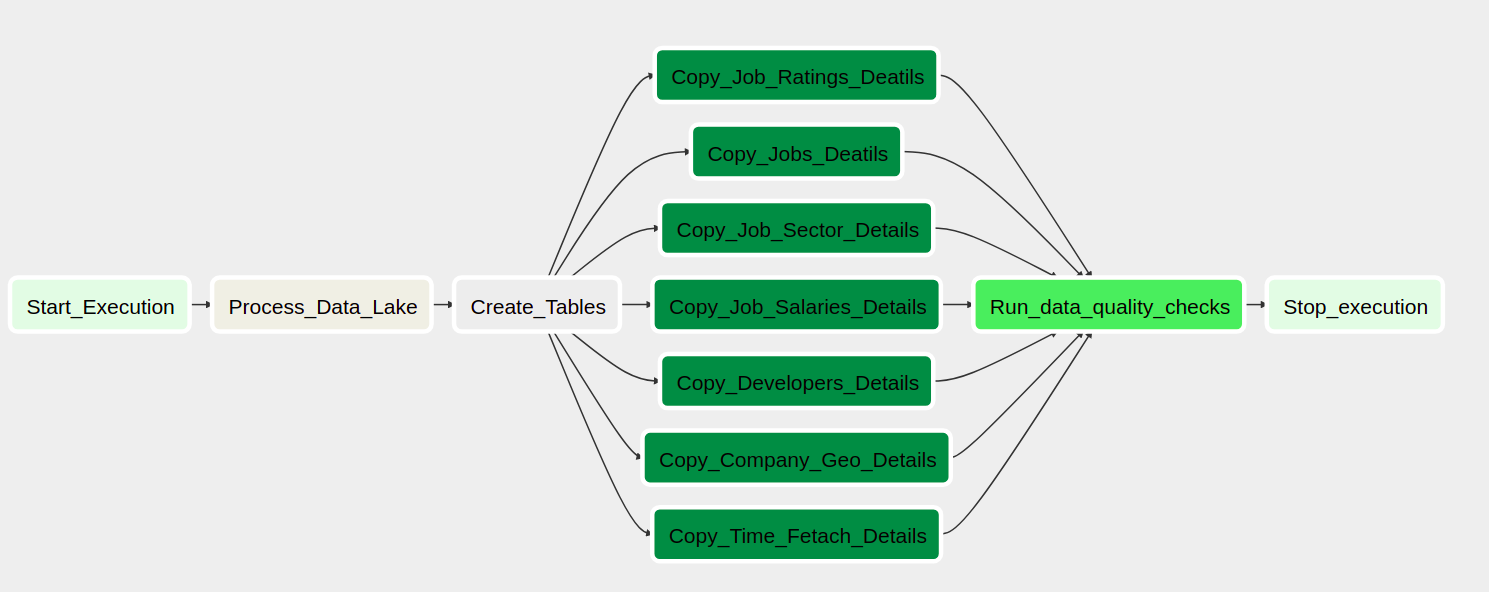
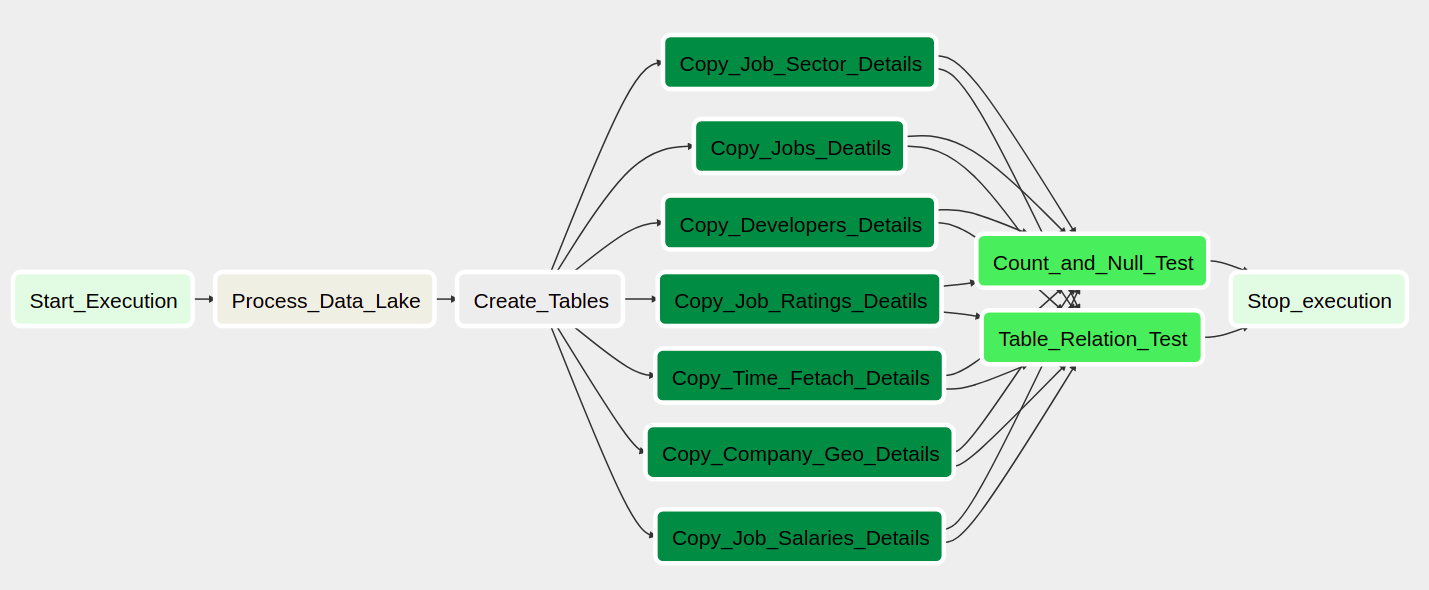
Data Quality Updated

Changed region(s): [[0.0, 0.061, 0.9853, 0.8542], [0.4311, 0.8542, 0.6774, 0.9763], [0.6774, 0.1525, 0.7082, 0.2136]]

diff --git a/data_pipeline/dags/jobs_dag.py b/data_pipeline/dags/jobs_dag.py
@@ -128,16 +128,28 @@ copy_developers_to_redshift = CopyToRedshiftOperator(
 )
 
 
-dq_checks = [
+dq_null_checks = [
 {'check_sql': "SELECT COUNT(*) FROM jobs;", 'test_expr': "{} < 1"},
 {'check_sql': "SELECT COUNT(*) FROM developers WHERE person_id is NULL;", 'test_expr': "{} >= 1"}
 ]
 
-run_quality_checks = DataQualityOperator(
-    task_id='Run_data_quality_checks',
+count_and_null_test = DataQualityOperator(
+    task_id='Count_and_Null_Test',
     dag=dag,
     redshift_conn_id="redshift",
-    dq_checks=dq_checks
+    dq_checks=dq_null_checks
+)
+
+
+dq_join_checks = [
+{'check_sql': "SELECT COUNT(*) FROM job_salary JOIN company_location on (job_salary.company = company_location.company);", 'test_expr': "{} < 1"},
+]
+
+table_relation_test = DataQualityOperator(
+    task_id='Table_Relation_Test',
+    dag=dag,
+    redshift_conn_id="redshift",
+    dq_checks=dq_join_checks
 )
 
 
@@ -156,12 +168,23 @@ create_tables >> copy_job_salary_to_redshift
 create_tables >> copy_developers_to_redshift
 
 
-copy_jobs_to_redshift >> run_quality_checks
-copy_time_details_to_redshift >> run_quality_checks
-copy_company_geo_to_redshift >> run_quality_checks
-copy_job_rating_to_redshift >> run_quality_checks
-copy_job_sector_to_redshift >> run_quality_checks
-copy_job_salary_to_redshift >> run_quality_checks
-copy_developers_to_redshift >> run_quality_checks
+copy_jobs_to_redshift >> count_and_null_test
+copy_time_details_to_redshift >> count_and_null_test
+copy_company_geo_to_redshift >> count_and_null_test
+copy_job_rating_to_redshift >> count_and_null_test
+copy_job_sector_to_redshift >> count_and_null_test
+copy_job_salary_to_redshift >> count_and_null_test
+copy_developers_to_redshift >> count_and_null_test
 
-run_quality_checks >> end_operator
+
+copy_jobs_to_redshift >> table_relation_test
+copy_time_details_to_redshift >> table_relation_test
+copy_company_geo_to_redshift >> table_relation_test
+copy_job_rating_to_redshift >> table_relation_test
+copy_job_sector_to_redshift >> table_relation_test
+copy_job_salary_to_redshift >> table_relation_test
+copy_developers_to_redshift >> table_relation_test
+
+
+count_and_null_test >> end_operator
+table_relation_test >> end_operator

diff --git a/README.md b/README.md
@@ -145,6 +145,8 @@ Data Pipeline is available in directory `data_pipeline`. It consists of the foll
 2. Create Tables for Business analytics team
 3. Move New Data from S3 to the corresponding Tables
 4. Perform Data Quality tests
+    1. **Count_and_Null_Test**: This test make sure if there is data avaialble in the tables and make sure that there should be no Null value in primary key columns
+    2.  **Table_Relation_Test**: This test make sure that joins are working properly between fact and dimension tables
 
 <p align="center">
 <img src="readme_files/data_pipeline.png" width="100%" height="100%">
